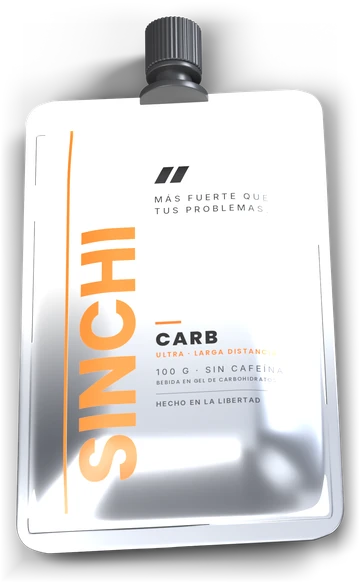
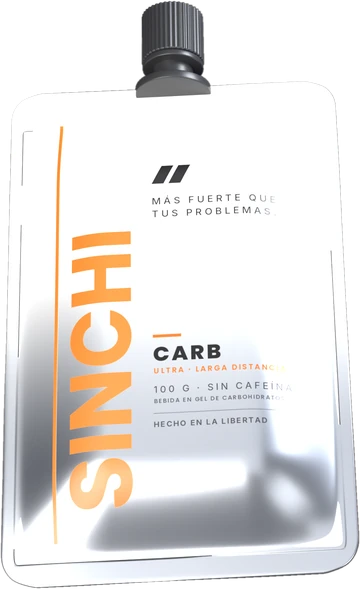
ULTRA: sin sombra rectangular ni halo; solo envase y foco
Claude-Session: https://claude.ai/code/session_016W1ixGYnw2FrW8Et2c2FKq

diff --git a/index.html b/index.html
@@ -33,7 +33,7 @@
 <meta name="twitter:image" content="https://sinchienergy.com/assets/og.jpg?v=5">
 <script type="application/ld+json">{"@context":"https://schema.org","@type":"Organization","name":"SINCHI CARB","alternateName":"SINCHI","url":"https://sinchienergy.com/","logo":"https://sinchienergy.com/icons/icon-512.png","slogan":"Más fuerte que tus problemas.","sameAs":["https://www.instagram.com/sinchienergy/","https://www.tiktok.com/@sinchienergy"]}</script>
 <link rel="preload" as="image" href="assets/race-600.webp?v=3" fetchpriority="high">
-<link rel="stylesheet" href="styles.css?v=24">
+<link rel="stylesheet" href="styles.css?v=25">
 <!-- Google Analytics -->
 <script>addEventListener('load',function(){setTimeout(function(){var s=document.createElement('script');s.async=true;s.src='https://www.googletagmanager.com/gtag/js?id=G-M9N4279ZE2';document.head.appendChild(s);},1500);});</script>
 <script>window.dataLayer=window.dataLayer||[];function gtag(){dataLayer.push(arguments);}gtag('js',new Date());gtag('config','G-M9N4279ZE2',{allow_google_signals:false,allow_ad_personalization_signals:false});</script>
@@ -134,7 +134,7 @@
     </div>
     <div class="ut-visual" aria-hidden="true">
       <div class="ut-beam"></div>
-      <img src="assets/ultra-360.webp?v=3" width="360" height="583" loading="lazy" decoding="async" alt="">
+      <img src="assets/ultra-360.webp?v=4" width="360" height="589" loading="lazy" decoding="async" alt="">
     </div>
   </div>
 </section>

diff --git a/sw.js b/sw.js
@@ -1,5 +1,5 @@
-const CACHE = 'sinchi-v28';
-const CORE = ['/', '/index.html', '/styles.css?v=24', '/main.js?v=17', '/cuenta.html', '/assets/race-600.webp?v=3', '/fonts/archivo.woff2?v=1', '/fonts/inter.woff2?v=1', '/assets/ultra-360.webp?v=3', '/assets/race-320.webp?v=3', '/assets/favicon.png', '/icons/icon-192.png'];
+const CACHE = 'sinchi-v29';
+const CORE = ['/', '/index.html', '/styles.css?v=25', '/main.js?v=17', '/cuenta.html', '/assets/race-600.webp?v=3', '/fonts/archivo.woff2?v=1', '/fonts/inter.woff2?v=1', '/assets/ultra-360.webp?v=4', '/assets/race-320.webp?v=3', '/assets/favicon.png', '/icons/icon-192.png'];
 self.addEventListener('install', e => { e.waitUntil(caches.open(CACHE).then(c => c.addAll(CORE)).then(() => self.skipWaiting())); });
 self.addEventListener('activate', e => { e.waitUntil(caches.keys().then(ks => Promise.all(ks.filter(k => k !== CACHE).map(k => caches.delete(k)))).then(() => self.clients.claim())); });
 self.addEventListener('fetch', e => {

diff --git a/cuenta.html b/cuenta.html
@@ -735,7 +735,7 @@ const fechaLarga = new Intl.DateTimeFormat('es-PE', { month: 'long', year: 'nume
 const fechaCorta = new Intl.DateTimeFormat('es-PE', { day: 'numeric', month: 'short', year: 'numeric' });
 const fechaMes = new Intl.DateTimeFormat('es-PE', { month: 'short', year: 'numeric' });
 const el = (tag, cls, txt) => { const e = document.createElement(tag); if (cls) e.className = cls; if (txt != null) e.textContent = txt; return e; };
-const imgDe = (p) => (/sachet/i.test(p) ? '/assets/race-320.webp?v=3' : '/assets/ultra-360.webp?v=3');
+const imgDe = (p) => (/sachet/i.test(p) ? '/assets/race-320.webp?v=3' : '/assets/ultra-360.webp?v=4');
 const nombreCompleto = (u) => [u.nombre, u.apellido].filter(Boolean).join(' ');
 
 function codigoBarras(n) {

diff --git a/styles.css b/styles.css
@@ -217,3 +217,4 @@ body.lock .wa-float{display:none}
 .ultra-tease:hover .ut-visual img{transform:translateX(-50%) translateY(-14px) rotate(-5deg)}
 @media (max-width:900px){.ultra-tease{grid-template-columns:1fr}.ut-visual{min-height:240px;order:-1}.ut-visual img{width:200px;bottom:-45%}}
 @media (prefers-reduced-motion:reduce){.ut-dot{animation:none}}
+.ut-visual img{filter:brightness(.62) contrast(1.15) saturate(.7) !important}
